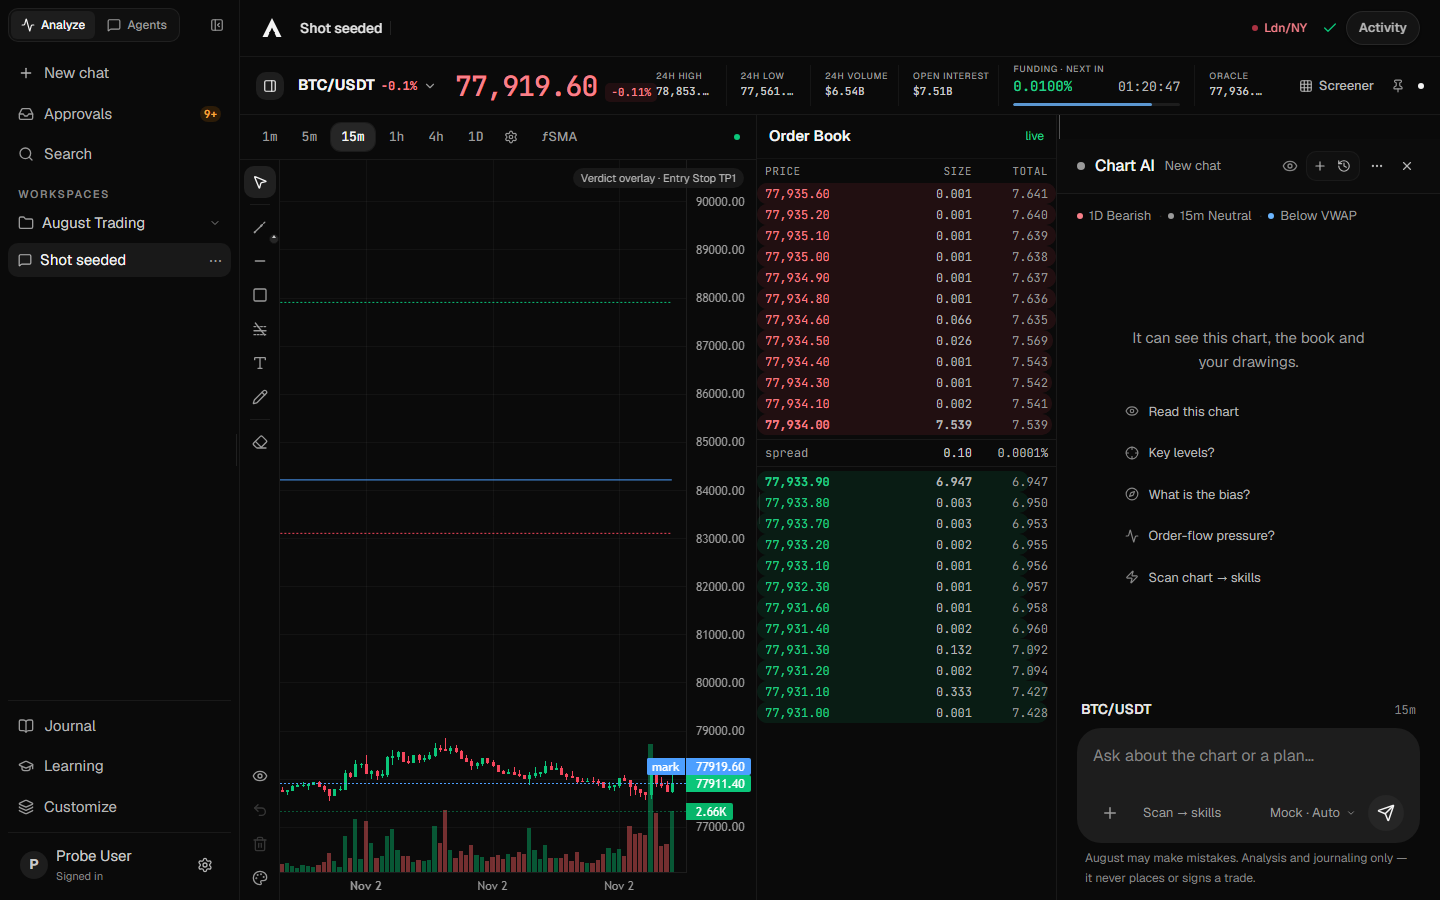
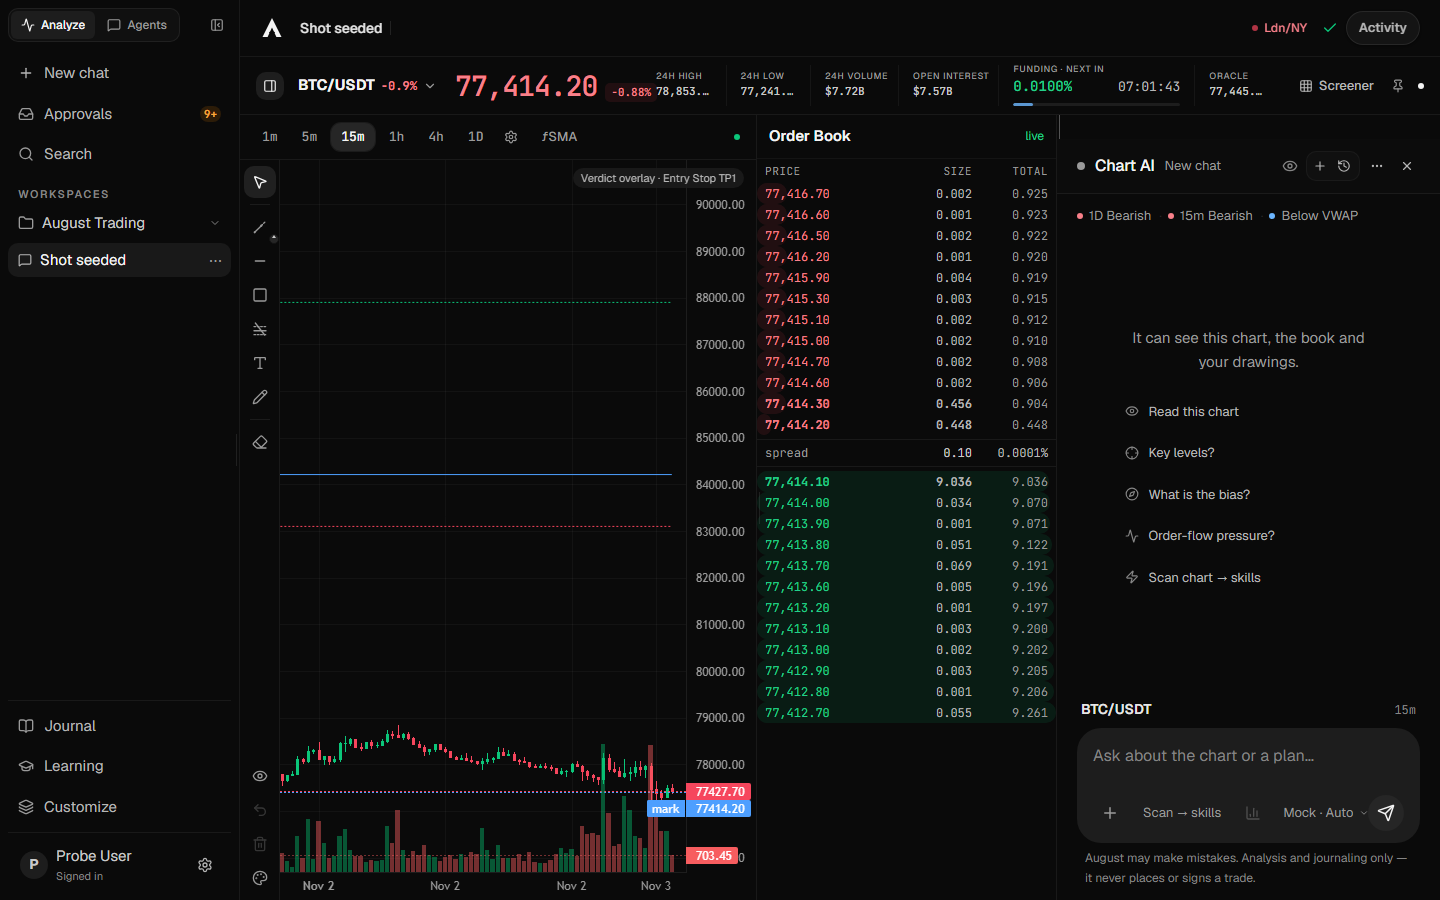
fix(dock): keep the composer toolbar stable while typing
Full analysis appeared only once the draft was non-empty, so the first
character widened the action row, wrapped the model and send onto a second
line and grew the card under the cursor. The action is now always present
as an icon, the model pair takes the remaining width instead of wrapping,
and the field refits when the dock is resized. Typing one line leaves the
composer at 115px with a 36px toolbar; only real multi-line drafts grow it.

diff --git a/src/components/trade/panels/ChatComposer.tsx b/src/components/trade/panels/ChatComposer.tsx
@@ -12,7 +12,7 @@
  */
 
 import React, { useLayoutEffect } from 'react';
-import {Camera, FileText, Plus, TriangleAlert, SendIcon, StopIcon} from '../../shared/Icons';
+import {Camera, FileText, Plus, TriangleAlert, SendIcon, StopIcon, ChartBarIcon} from '../../shared/Icons';
 import type { ProviderConfig } from '../../../types/provider';
 import type { Attachment } from '../../../hooks/useChatAttachments';
 import type { ReasoningEffort } from '../../../services/providers/reasoningControls';
@@ -116,12 +116,28 @@ const ChatComposer: React.FC<ChatComposerProps> = ({
     // a fixed `min-h-[56px]` gave a one-line "what about now?" two lines of
     // empty card, which is most of what made the composer read as a panel.
     // `rows={1}` stays the SSR/first-paint height; this only replaces it after
-    // a real measurement. The inline height is inert while the dock is hidden.
+    // a real measurement. The observer re-fits when the DOCK is dragged wider
+    // or narrower — the height is a function of the current width, not only of
+    // the draft, and a stale height after a resize is a tall empty box.
     useLayoutEffect(() => {
         const el = composerRef.current;
         if (!el) return;
-        el.style.height = 'auto';
-        el.style.height = `${Math.min(Math.max(el.scrollHeight, 40), 160)}px`;
+        const fit = (): void => {
+            el.style.height = 'auto';
+            el.style.height = `${Math.min(Math.max(el.scrollHeight, 40), 160)}px`;
+        };
+        fit();
+        const host = el.parentElement;
+        if (!host || typeof ResizeObserver === 'undefined') return;
+        let lastWidth = host.clientWidth;
+        const observer = new ResizeObserver(entries => {
+            const width = Math.round(entries[0]?.contentRect.width ?? 0);
+            if (width === lastWidth) return;
+            lastWidth = width;
+            fit();
+        });
+        observer.observe(host);
+        return () => observer.disconnect();
     }, [draft, composerRef]);
 
     // One shared ModelChip (components/shared/ModelChip.tsx), which is now also
@@ -171,12 +187,11 @@ const ChatComposer: React.FC<ChatComposerProps> = ({
                 className="max-h-40 min-h-[40px] w-full resize-none overflow-y-auto bg-transparent py-0.5 text-ui-base leading-7 text-zinc-100 placeholder:text-zinc-600 disabled:opacity-50"
             />
             <div className="mt-2 flex flex-wrap items-center gap-2">
-                {/* `flex-wrap` + nowrap chips: the toolbar was ALWAYS over-
-                    tight at the dock's 384px default — before, that showed up
-                    as a chip breaking across two lines ("Scan —/skills"), and
-                    once the chips were nowrap it showed up as 6px of page
-                    overflow (render-probe caught it). Wrapping BETWEEN chips is
-                    the honest middle: a label stays whole, and nothing overflows. */}
+                {/* The control set is STABLE: Full analysis is present from the
+                    first paint (disabled until there is a draft) and the model
+                    chip takes the remaining width with `flex-1`, so typing the
+                    first character cannot reveal a control, wrap the row, and
+                    grow the card under the cursor. The chip truncates instead. */}
                 <input type="file" multiple accept="image/*,.md,.txt,.csv,.json" ref={fileInputRef} className="hidden"
                     onChange={ev => { attachFiles(ev.target.files); ev.target.value = ''; }} />
                 {/* Reference layout: ONE + button opens everything that
@@ -213,20 +228,24 @@ const ChatComposer: React.FC<ChatComposerProps> = ({
                     className="shrink-0 whitespace-nowrap rounded-control px-2 py-1.5 text-ui-dense text-zinc-500 transition-colors hover:bg-white/[0.05] hover:text-zinc-200 disabled:opacity-40">
                 Scan → skills
                 </button>
-                {onRunAnalysis && draft.trim() && !isPanel && (
-                    <button type="button" onClick={() => void runFullAnalysis()} disabled={busy}
-                        title="Run the full analysis (live market data + tools + trade plan) on this request"
-                        className="shrink-0 whitespace-nowrap rounded-control px-2 py-1.5 text-ui-dense text-zinc-500 transition-colors hover:bg-white/[0.05] hover:text-zinc-200 disabled:opacity-40">
-                    Full analysis
+                {onRunAnalysis && !isPanel && (
+                    <button type="button" onClick={() => void runFullAnalysis()}
+                        disabled={busy || !draft.trim()}
+                        aria-label="Full analysis"
+                        data-testid="composer-full-analysis"
+                        title={draft.trim()
+                            ? 'Run the full analysis (live market data + tools + trade plan) on this request'
+                            : 'Type a request to run the full analysis'}
+                        className="flex h-8 w-8 shrink-0 items-center justify-center rounded-control text-zinc-500 transition-colors hover:bg-white/[0.05] hover:text-zinc-200 disabled:opacity-40">
+                        <ChartBarIcon className="h-4 w-4" aria-hidden="true" />
                     </button>
                 )}
                 {/* D-A (docs/plan/model-menu-redesign.md): the model control
-                    lives IN the card, immediately left of send — not on a
-                    footer row under it. `ml-auto` on the PAIR is what keeps
-                    send the bottom-right element when the 384px toolbar wraps
-                    onto a second line; the trigger truncates instead of
-                    pushing the row sideways. */}
-                <div className="ml-auto flex min-w-0 items-center gap-1.5" data-testid="composer-model-and-send">
+                    lives IN the card, immediately left of send. `flex-1` +
+                    `justify-end` is what keeps send the bottom-right element:
+                    the pair takes the remaining width and the trigger truncates
+                    instead of pushing the row sideways or wrapping. */}
+                <div className="ml-auto flex min-w-0 flex-1 items-center justify-end gap-1.5" data-testid="composer-model-and-send">
                     {!isPanel && (
                         <ModelChip providers={providers} value={selectedChatModel} onChange={changeSoloModel}
                             onRefreshModels={onRefreshModels} issue={modelIssue} fallbackLabel={provider?.name}
